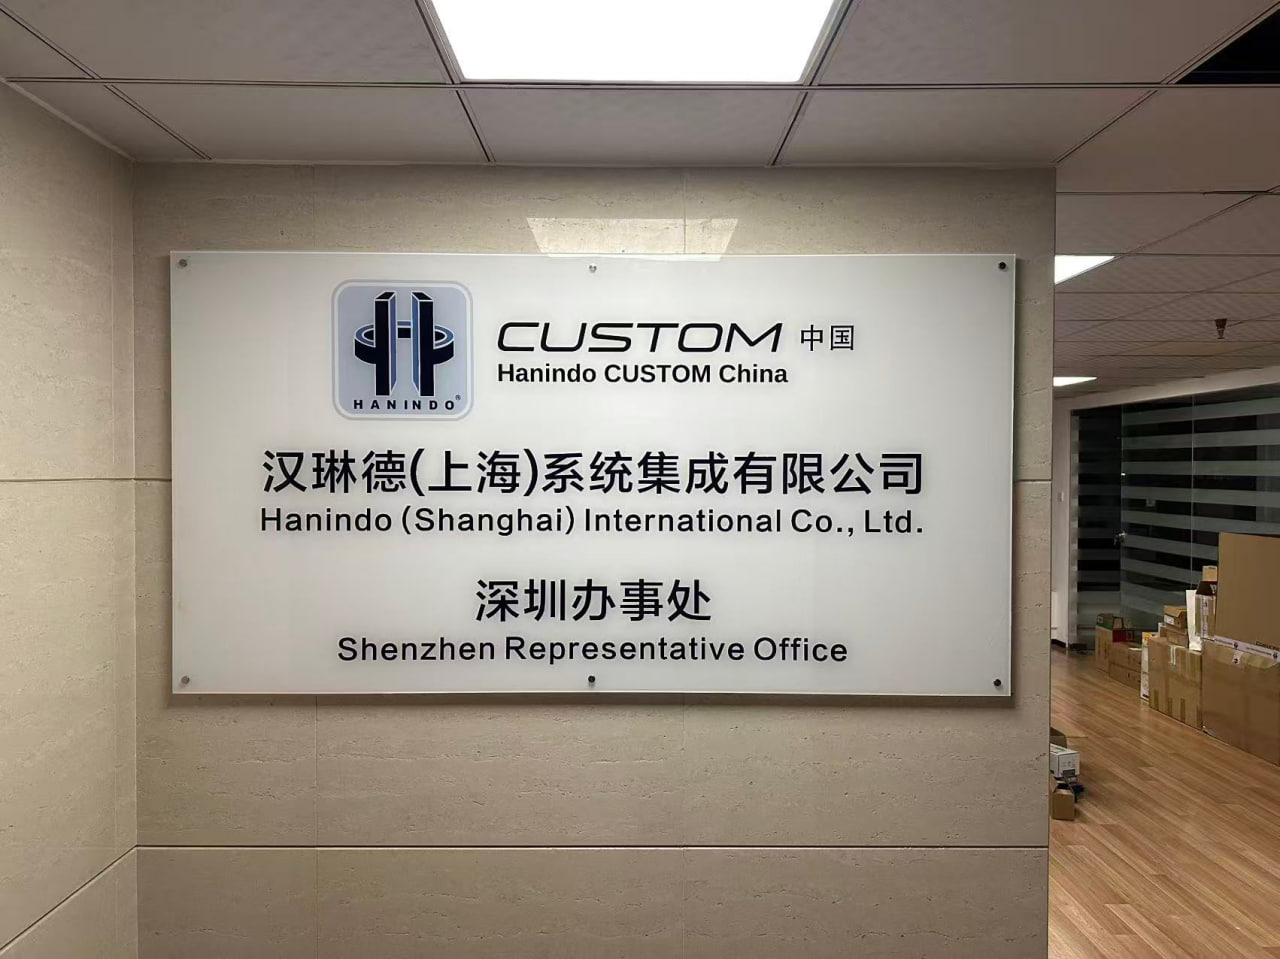
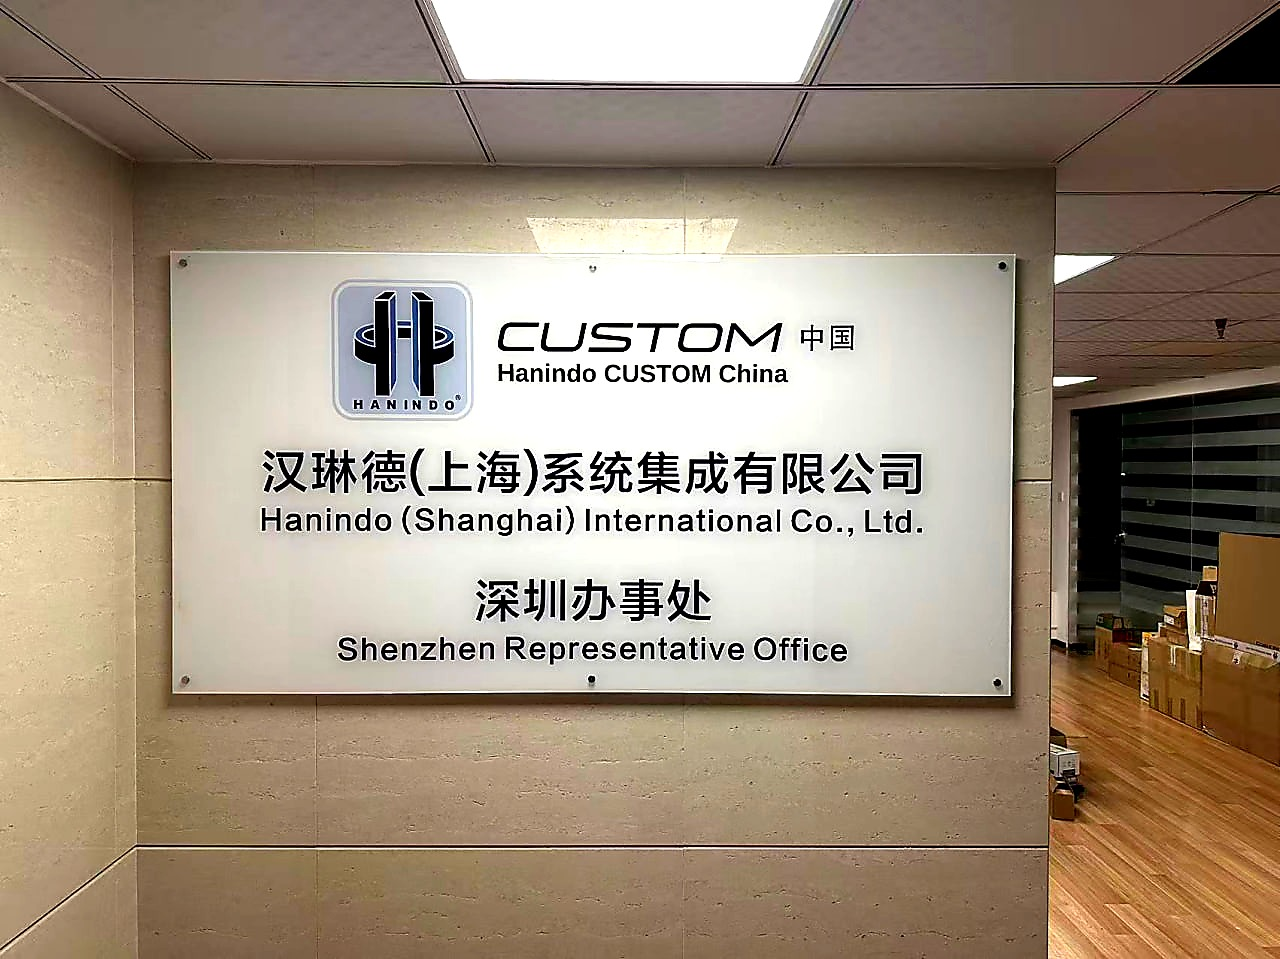
Shanghai About: sharpen the two office sign photos
Apply the same enhancement pass to the "Our Offices" photos — the Shanghai
and Shenzhen office signs — that the home entrance photo got: more contrast
and saturation to lift the dullness, and a threshold unsharp mask that crisps
the sign text while leaving the flat grain alone. Cache versions bumped
(office-shanghai v3, office-shenzhen v2) across the About and Contact pages.

diff --git a/shanghai/about.html b/shanghai/about.html
@@ -153,7 +153,7 @@
     <div class="offgrid">
       <div class="off reveal">
         <div class="shot">
-          <img src="../photos/group/shanghai/ovs-office-shanghai.jpg?v=2" alt="Hanindo (Shanghai) International Co., Ltd., Shanghai office" loading="lazy" onerror="this.style.display='none';var s=this.nextElementSibling;if(s)s.style.display='flex'" />
+          <img src="../photos/group/shanghai/ovs-office-shanghai.jpg?v=3" alt="Hanindo (Shanghai) International Co., Ltd., Shanghai office" loading="lazy" onerror="this.style.display='none';var s=this.nextElementSibling;if(s)s.style.display='flex'" />
           <div class="ph" style="display:none"><svg viewBox="0 0 24 24"><rect x="3" y="3" width="18" height="18" rx="2"/><circle cx="8.5" cy="8.5" r="1.5"/><path d="M21 15l-5-5L5 21"/></svg><span>Photo needed</span></div>
         </div>
         <div class="offbody">
@@ -164,7 +164,7 @@
       </div>
       <div class="off reveal d1">
         <div class="shot">
-          <img src="../photos/group/shanghai/ovs-office-shenzhen.jpg" alt="Hanindo (Shanghai) International Co., Ltd., Shenzhen representative office" loading="lazy" onerror="this.style.display='none';var s=this.nextElementSibling;if(s)s.style.display='flex'" />
+          <img src="../photos/group/shanghai/ovs-office-shenzhen.jpg?v=2" alt="Hanindo (Shanghai) International Co., Ltd., Shenzhen representative office" loading="lazy" onerror="this.style.display='none';var s=this.nextElementSibling;if(s)s.style.display='flex'" />
           <div class="ph" style="display:none"><svg viewBox="0 0 24 24"><rect x="3" y="3" width="18" height="18" rx="2"/><circle cx="8.5" cy="8.5" r="1.5"/><path d="M21 15l-5-5L5 21"/></svg><span>Photo needed</span></div>
         </div>
         <div class="offbody">

diff --git a/shanghai/contact.html b/shanghai/contact.html
@@ -124,7 +124,7 @@
         </ul>
       </div>
       <div class="shot reveal d2 hide-sm">
-        <img src="../photos/group/shanghai/ovs-office-shanghai.jpg?v=2" alt="Hanindo (Shanghai) International Co., Ltd., Shanghai office" onerror="this.style.display='none';var s=this.nextElementSibling;if(s)s.style.display='flex'" loading="lazy" />
+        <img src="../photos/group/shanghai/ovs-office-shanghai.jpg?v=3" alt="Hanindo (Shanghai) International Co., Ltd., Shanghai office" onerror="this.style.display='none';var s=this.nextElementSibling;if(s)s.style.display='flex'" loading="lazy" />
         <div class="ph" style="display:none"><svg viewBox="0 0 24 24"><rect x="3" y="3" width="18" height="18" rx="2"/><circle cx="8.5" cy="8.5" r="1.5"/><path d="M21 15l-5-5L5 21"/></svg><span>Photo needed</span></div>
       </div>
     </div>
